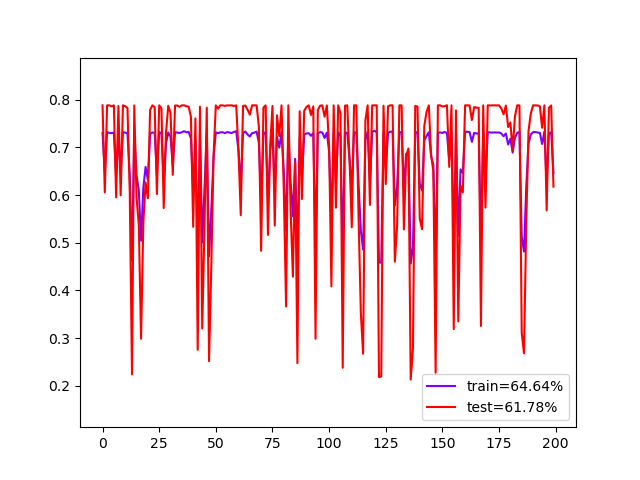
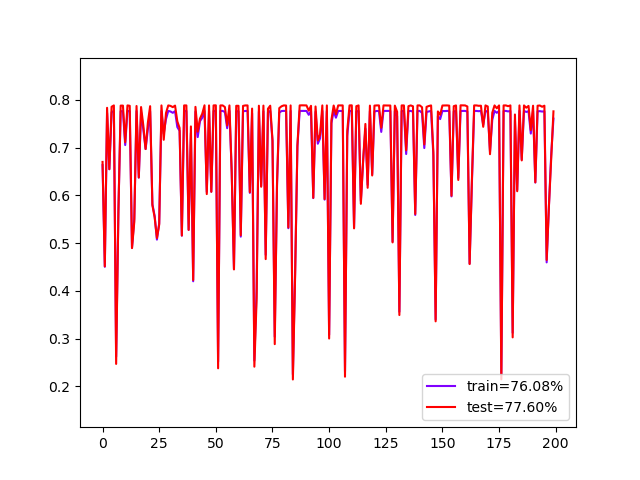
Refinemends to SLP efficiency

Changed region(s): [[0.1562, 0.2188, 0.875, 0.875], [0.0625, 0.7812, 0.125, 0.8125], [0.0625, 0.5, 0.125, 0.5312]]

diff --git a/SLP/slp.py b/SLP/slp.py
@@ -49,15 +49,12 @@ def slp_weight_update(data_input,weights,label_input,learning_rate):
 	"""
 
 	output = np.dot(data_input,np.transpose(weights)) #transpose to allow for dot product
-	if(output > 0):
-		output = 1
-	else:
-		output = 0
-	if (label_input != output): #the target is not the same change weights
-		for x in range(weights.shape[0]): #goes through all the weights
-			weights[x] = weights[x] - (learning_rate * (output - label_input) * data_input[x])
+	output = 1 if output > 0 else 0
 
-	return weights;
+	#If the prediction is incorrect then update all of the weights
+	if (label_input != output):
+		weights = weights - (learning_rate * (output - label_input) * data_input)
+	return weights
 
 def epoch_train_slp(data_input,label_input, learning_rate,weights, confusion_matrix,label_test,test_input, epoch_input, train_accuracy, test_accuracy):
 	"""
